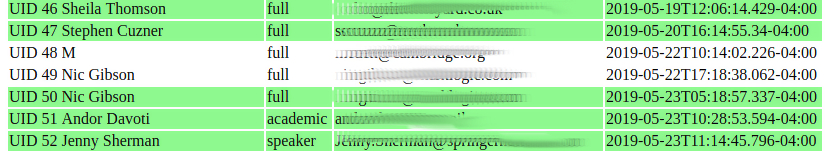
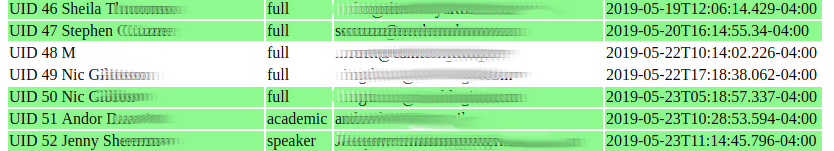
Blurred out last names. Further edits.

diff --git a/index.html b/index.html
@@ -239,7 +239,7 @@
                     <section>
                         <h3>Generating Button Code</h3>
                         
-                        <img src="img/generate-buttons.png" alt="PayPal generate buttons" style="width: 60%;vertical-align: middle;"/>
+                        <img src="img/generate-buttons.png" alt="PayPal generate buttons" style="width: 80%;vertical-align: middle;"/>
                         
                         <aside class="notes">
                             <p>PayPal sandbox has a generate buttons page</p>
@@ -365,6 +365,8 @@
                     
                     <!-- The button with amount -->
                     <section>
+                        <h3>I Found This Example</h3>
+                        
                         <pre class="stretch">
                             <code class="javascript">&lt;script>
   paypal.Buttons({
@@ -481,6 +483,8 @@ onCancel: function(data, actions) {{
                                     <p>Listener sends back copy of IPN (etc)</p>
                                 </li>
                             </ol>
+                            
+                            <p>The idea being that you can then query PP for any transaction details.</p>
                         </aside>
                         
                     </section>
@@ -536,6 +540,8 @@ shipping=0.00</code>
                     
                     <!-- Something about failed IPN listener attempts? -->
                     <section>
+                        <h3>I Created a Test Form</h3>
+                        
                         <pre class="stretch">
                             <code class="xml" data-trim data-noescape>&lt;form
     target="_new"
@@ -560,6 +566,8 @@ shipping=0.00</code>
                     
                     
                     <section>
+                        <h3>Pointing Out This XQuery</h3>
+                        
                         <pre class="stretch">
                             <code class="xquery" data-trim data-noescape>xquery version "3.1";
 declare namespace exist = "http://exist.sourceforge.net/NS/exist";
@@ -588,6 +596,7 @@ return
                         
                         <aside class="notes">
                             <p>But no matter what, I couldn't get PP's IPN Simulator to work</p>
+                            <p>So I sent out a desperate cry for help</p>
                         </aside>
                     </section>
                     
@@ -596,11 +605,13 @@ return
                     
                     <!-- Adam to the rescue -->
                     <section>
+                        <h3>Help Me (You're My Only Hope)</h3>
+                        
                         <img src="img/paris.jpg" alt="Paris balcony view"/>
                         
                         <aside class="notes">
-                            <p>Copy/paste from Stack Overflow didn't work so I asked for help</p>
-                            <p>Adam Retter replied within hours</p>
+                            <p>I knew this guy who's really good at XQ, eXist, and an international man of mystery</p>
+                            <p>He was travelling Europe but replied within hours</p>
                             <p>Always imagined him writing the code on a napkin while on holiday</p>
                         </aside>
                     </section>
@@ -613,7 +624,7 @@ return
                         <aside class="notes">
                             <p>Basically a RESTXQ version of one of the listeners listed as examples</p>
                             <p>While the IPN Sim worked, I still couldn't extract info to eXist-DB</p>
-                            <p>Encoding diffs. Tests. I was eventually able to produce me.</p>
+                            <p>Encoding diffs. Tests. A bare-bones listener, sort of.</p>
                         </aside>
                     </section>
                     
@@ -636,6 +647,8 @@ return
                     
                     <!-- My dead simple listener -->
                     <section>
+                        <h3>My Simple "Listener"</h3>
+                        
                         <pre class="stretch" style="font-size: 15pt;">
                             <code class="xquery" data-trim data-noescape>declare
     %rest:POST("{$body}")
@@ -666,6 +679,7 @@ declare function pay:all-good(){
                         <aside class="notes">
                             <p>This, of course, is not a full listener</p>
                             <p>A *listener* listens UNTIL it gets the OK and a verbatim copy of the IPN (which it sends back with an added string)</p>
+                            <p>PP needs that process if you want your back end to talk to theirs.</p>
                             <p>This does not repeat anything, it merely says OK and saves two parameters</p>
                             <p>Still don't fully understand this; did I mention my ignorance?</p>
                         </aside>
@@ -673,6 +687,8 @@ declare function pay:all-good(){
                     
                     
                     <section>
+                        <h3>Adding The Endpoint</h3>
+                        
                         <pre class="stretch" style="font-size: 15pt;">
                             <code class="javascript">onApprove: function(data, actions) 
     ...
